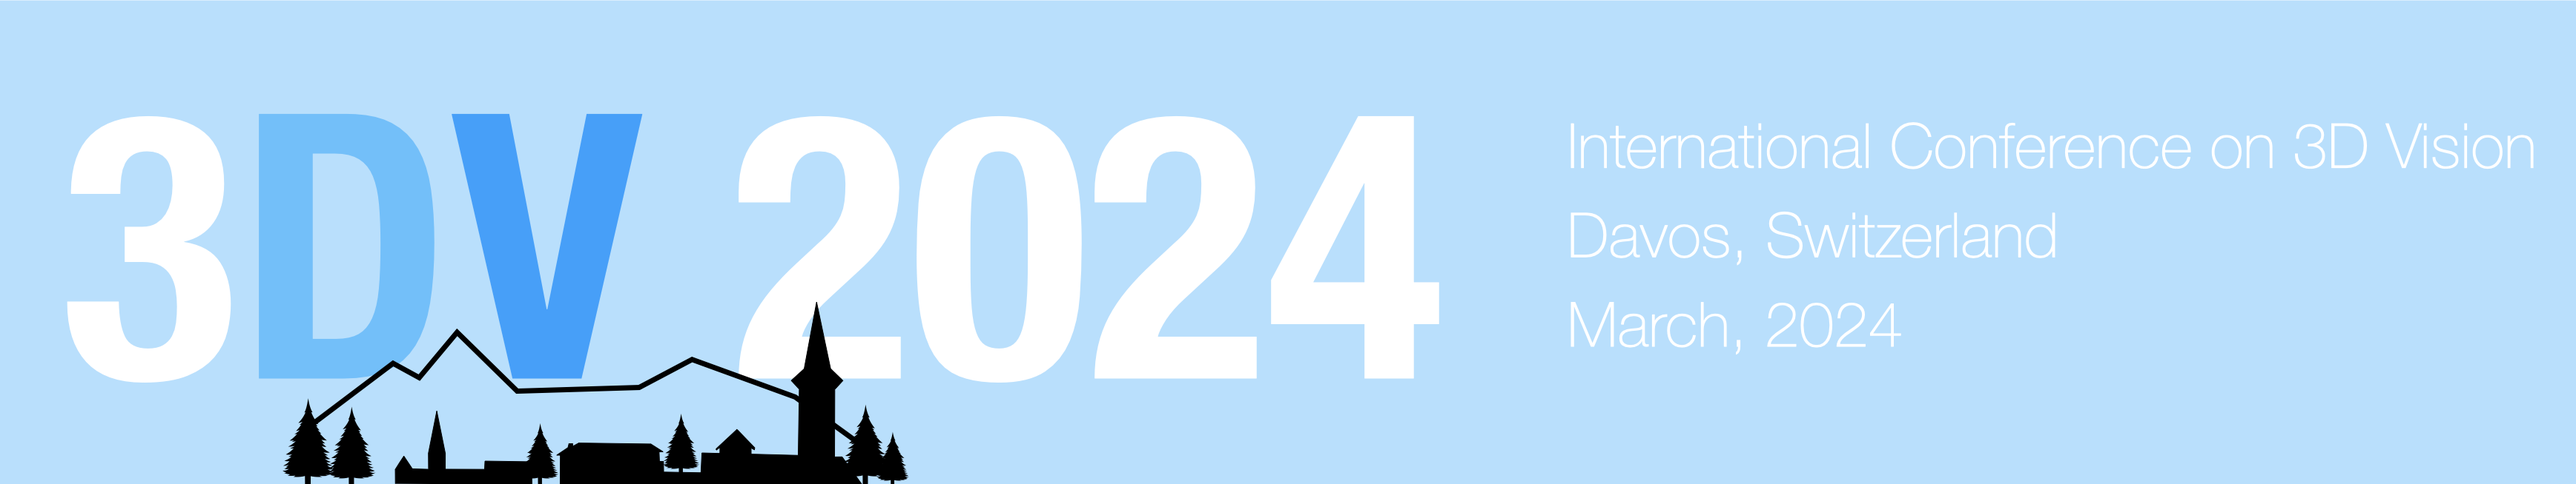
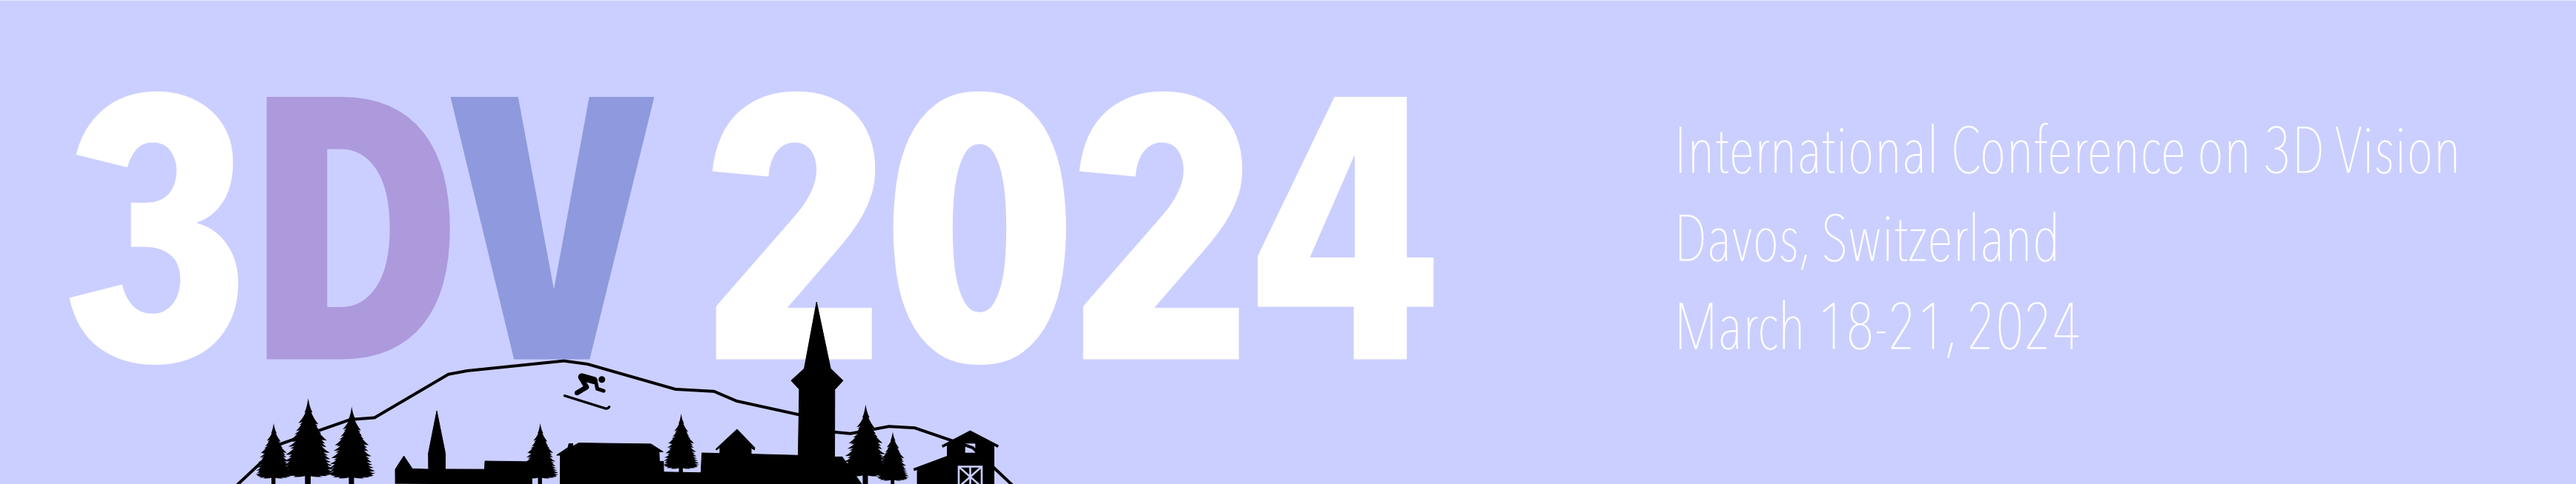
Update with latest info

diff --git a/2024/code-of-conduct.md b/2024/code-of-conduct.md
@@ -15,7 +15,7 @@ from unlawful discrimination, harassment, and retaliation.
 
 - Exhibitors should not use sexualized images, activities, or other material in their booths and must refrain from the use of sexualized clothing/uniforms/costumes, or otherwise creating a sexualized environment. Speakers should not use sexual language or images without scientific purpose, or any language or images that would constitute harassment as defined above in their talks.
 
-- Violations should be reported to the conference chairs **3dv24gc [at] googlegroups [dot] com** in general or **[Zuzana Kukelova](https://kukelova.weebly.com/)** in particular. All reports will be treated confidentially. The chairs will investigate and prepare a brief statement of facts, a conclusion (proven/not proven) using a preponderance of the evidence standard, and a recommended sanction if a violation is proven. The conference standards committee will vote to either adopt or not adopt this recommendation and may modify it. The decision of the committee is final. Sanctions may include, but are not limited to, exclusion from one or more conference events, exclusion from the entire conference, removal of material from the online record of the conference, referral to the violator’s university or employer, and referral to law enforcement. In no case will registration fees or expenses be refunded by the conference. 
+- Violations should be reported to the conference chairs **3dv24gc [at] googlegroups [dot] com**. All reports will be treated confidentially. The chairs will investigate and prepare a brief statement of facts, a conclusion (proven/not proven) using a preponderance of the evidence standard, and a recommended sanction if a violation is proven. The conference standards committee will vote to either adopt or not adopt this recommendation and may modify it. The decision of the committee is final. Sanctions may include, but are not limited to, exclusion from one or more conference events, exclusion from the entire conference, removal of material from the online record of the conference, referral to the violator’s university or employer, and referral to law enforcement. In no case will registration fees or expenses be refunded by the conference. 
 
 **All 3DV 2024 attendees and exhibitors are expected to comply with these standards of
 behaviour.**

diff --git a/2024/call-for-papers.md b/2024/call-for-papers.md
@@ -1,19 +1,15 @@
 ---
 layout: 2021_sidebar_no_news
 title: Call for Papers
-year: 2022
+year: 2024
 ---
 
 
-<a href="{{site.url}}/files/2022/3DV2022_CFP.pdf" target="_blank">**A PDF version with the important dates can be found here.**</a> 
+<a href="{{site.url}}/files/2024/3DV2024_CFP.pdf" target="_blank">**A PDF version with the important dates can be found here.**</a> 
 
-We invite submissions to the 10th International Conference on 3D Vision (3DV 2022), which will be held in Prague, Czech Republic, on September 12-15, 2022.
-Since 2013, under the name 3DV, this event has provided a platform for disseminating research results covering a broad variety of topics in the area of 3D computer vision and graphics,
-from novel optical sensors, signal processing, geometric modeling, representation and transmission, to visualization, analysis, interaction, and a variety of applications.
+We invite submissions to the 11th International Conference on 3D Vision (3DaVos 2024), which will be held in Davos, Switzerland, on March 18-21, 2024. Since 2013, under the name 3DV, this event provides a platform for disseminating research results covering a broad variety of topics in the area of 3D computer vision and graphics, from novel optical sensors, signal processing, geometric modeling, representation and transmission, to visualization, analysis, interaction, and a variety of applications.
 
-3DV 2022 will showcase high quality single-track oral and poster presentations and demonstration sessions.
-It will also feature industrial exhibitions held in conjunction with the main conference.
-Proposals for Workshops and Tutorials are also invited. 
+3DV 2024 will showcase high-quality single-track oral and poster presentations and demonstration sessions. It will also feature industrial exhibitions held in conjunction with the main conference. Proposals for Workshops and Tutorials are also invited.
 
 Topics of interest include, but are not limited to:
 

diff --git a/2024/about-city.md b/2024/about-city.md
@@ -4,6 +4,11 @@ year: 2024
 title: Welcome to Davos!
 ---
 
+
+Davos is an Alpine resort town and a municipality in the canton of Graubünden, Switzerland.
+
+Gaining prominence in the 19th century as a mountain health resort, Davos is perhaps best known today for hosting the World Economic Forum—often referred to simply as "Davos"—an annual meeting of global political and corporate leaders. With a long history of winter sport, Davos also has one of Switzerland's largest ski resorts, and March is still a great time for skiiing!
+
 <!-- Located in the heart of Europe, the city of Prague is an open-air museum on its
 own you will love strolling through.
 The city is a kaleidoscope of architectural styles and its incredible

diff --git a/2024/accommodation.md b/2024/accommodation.md
@@ -4,6 +4,8 @@ year: 2022
 title: Hotel Conference
 ---
 
+<!-- Cheap housing in the youth hostel 59CHF/night. 
+
 To facilitate the accommodation, the [Vienna House Diplomat Prague](https://www.viennahouse.com/en/diplomat-prague/the-hotel/overview.html) offers single
 and double rooms at discounted prices. 
 
@@ -26,4 +28,4 @@ Here is more information on the booking conditions:
 - Booking requires a valid payment/credit card
 
 
-<img src="{{site.url}}/img/2022/vienna_diplomatic_house.jpg" style="width:100%;"/>
+<img src="{{site.url}}/img/2022/vienna_diplomatic_house.jpg" style="width:100%;"/> -->

diff --git a/2024/people.md b/2024/people.md
@@ -1,6 +1,6 @@
 ---
 layout: 2021_sidebar
-year: 2022
+year: 2024
 ---
 
 
